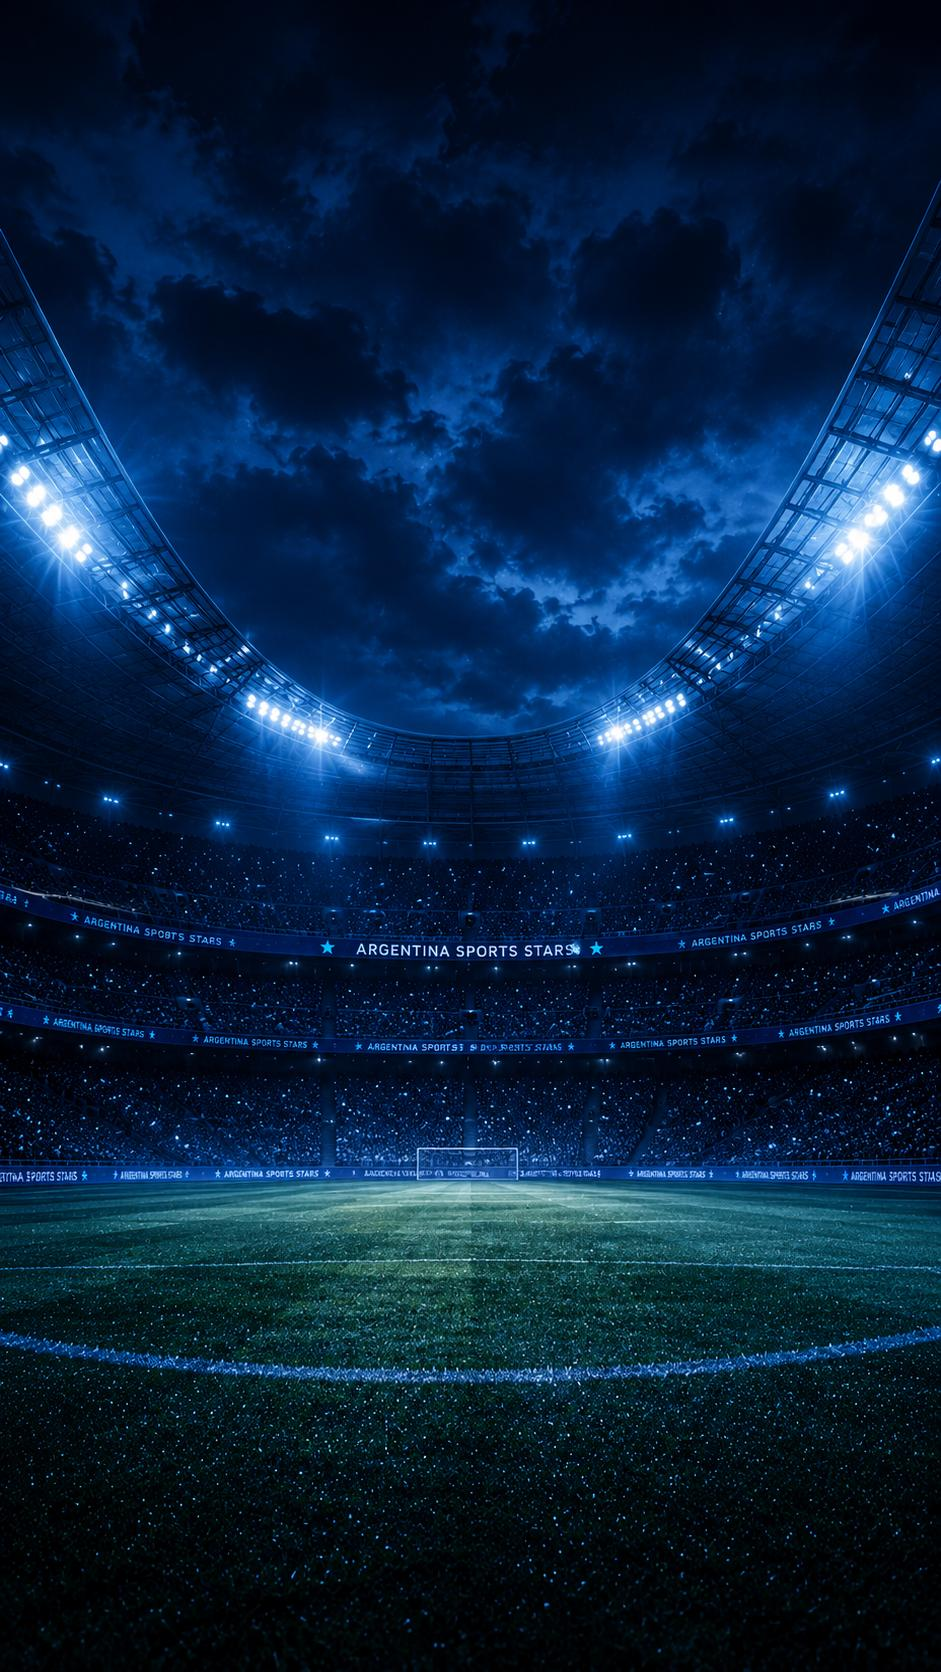
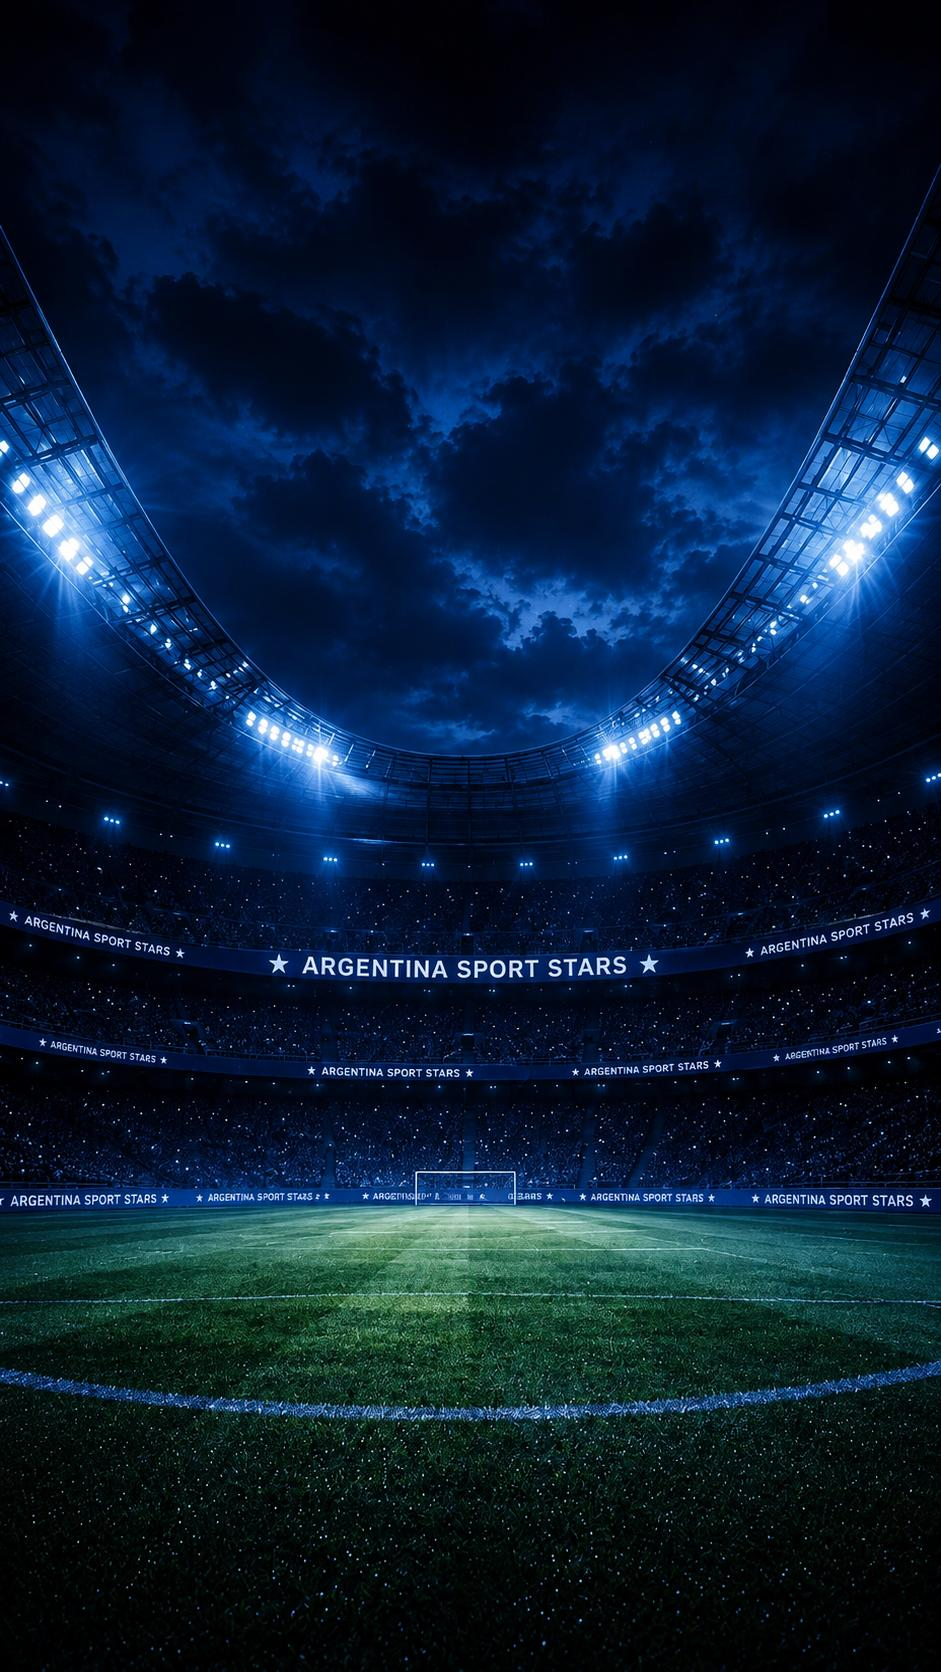
Add metategs

diff --git a/team/emanuel-cedron.html b/team/emanuel-cedron.html
@@ -6,7 +6,15 @@
 <meta charset="UTF-8">
 <meta name="viewport" content="width=device-width, initial-scale=1.0">
 
-<title>Emanuel Cedrón | Argentina Sport Stars</title>
+<title>Emanuel Cedron | Argentina Sport Stars</title>
+
+<meta name="description" content="Profile of football player Emanuel Cedron represented by Argentina Sport Stars.">
+
+<meta name="keywords" content="Emanuel Cedron, football player, Argentina Sport Stars, soccer, midfielder">
+
+<meta name="robots" content="index, follow">
+
+<link rel="canonical" href="https://argentinasportstars.com/emanuel-cedron.html">
 
 <link rel="stylesheet" href="../style-new.css">
 

diff --git a/about.html b/about.html
@@ -18,6 +18,14 @@
 
 <title>About Us | Argentina Sport Stars</title>
 
+<meta name="description" content="Learn about Argentina Sport Stars, an international football management agency representing talented players worldwide.">
+
+<meta name="keywords" content="About Argentina Sport Stars, football agency, sports management">
+
+<meta name="robots" content="index, follow">
+
+<link rel="canonical" href="https://argentinasportstars.com/about.html">
+
 <link rel="stylesheet" href="style-new.css">
 
 <link rel="preconnect" href="https://fonts.googleapis.com">

diff --git a/contact.html b/contact.html
@@ -18,6 +18,14 @@
 
 <title>Contact | Argentina Sport Stars</title>
 
+<meta name="description" content="Contact Argentina Sport Stars for player representation, partnerships and football management services.">
+
+<meta name="keywords" content="Contact Argentina Sport Stars, football agency, football management">
+
+<meta name="robots" content="index, follow">
+
+<link rel="canonical" href="https://argentinasportstars.com/contact.html">
+
 <link rel="stylesheet" href="style-new.css">
 
 <link rel="preconnect" href="https://fonts.googleapis.com">

diff --git a/team/constantin-wunder.html b/team/constantin-wunder.html
@@ -8,6 +8,14 @@
 
 <title>Constantin Wunder | Argentina Sport Stars</title>
 
+<meta name="description" content="Football player profile of Constantin Wunder represented by Argentina Sport Stars.">
+
+<meta name="keywords" content="Constantin Wunder, football player, Argentina Sport Stars">
+
+<meta name="robots" content="index, follow">
+
+<link rel="canonical" href="https://argentinasportstars.com/constantin-wunder.html">
+
 <link rel="stylesheet" href="../style-new.css">
 
 <link rel="preconnect" href="https://fonts.googleapis.com">
